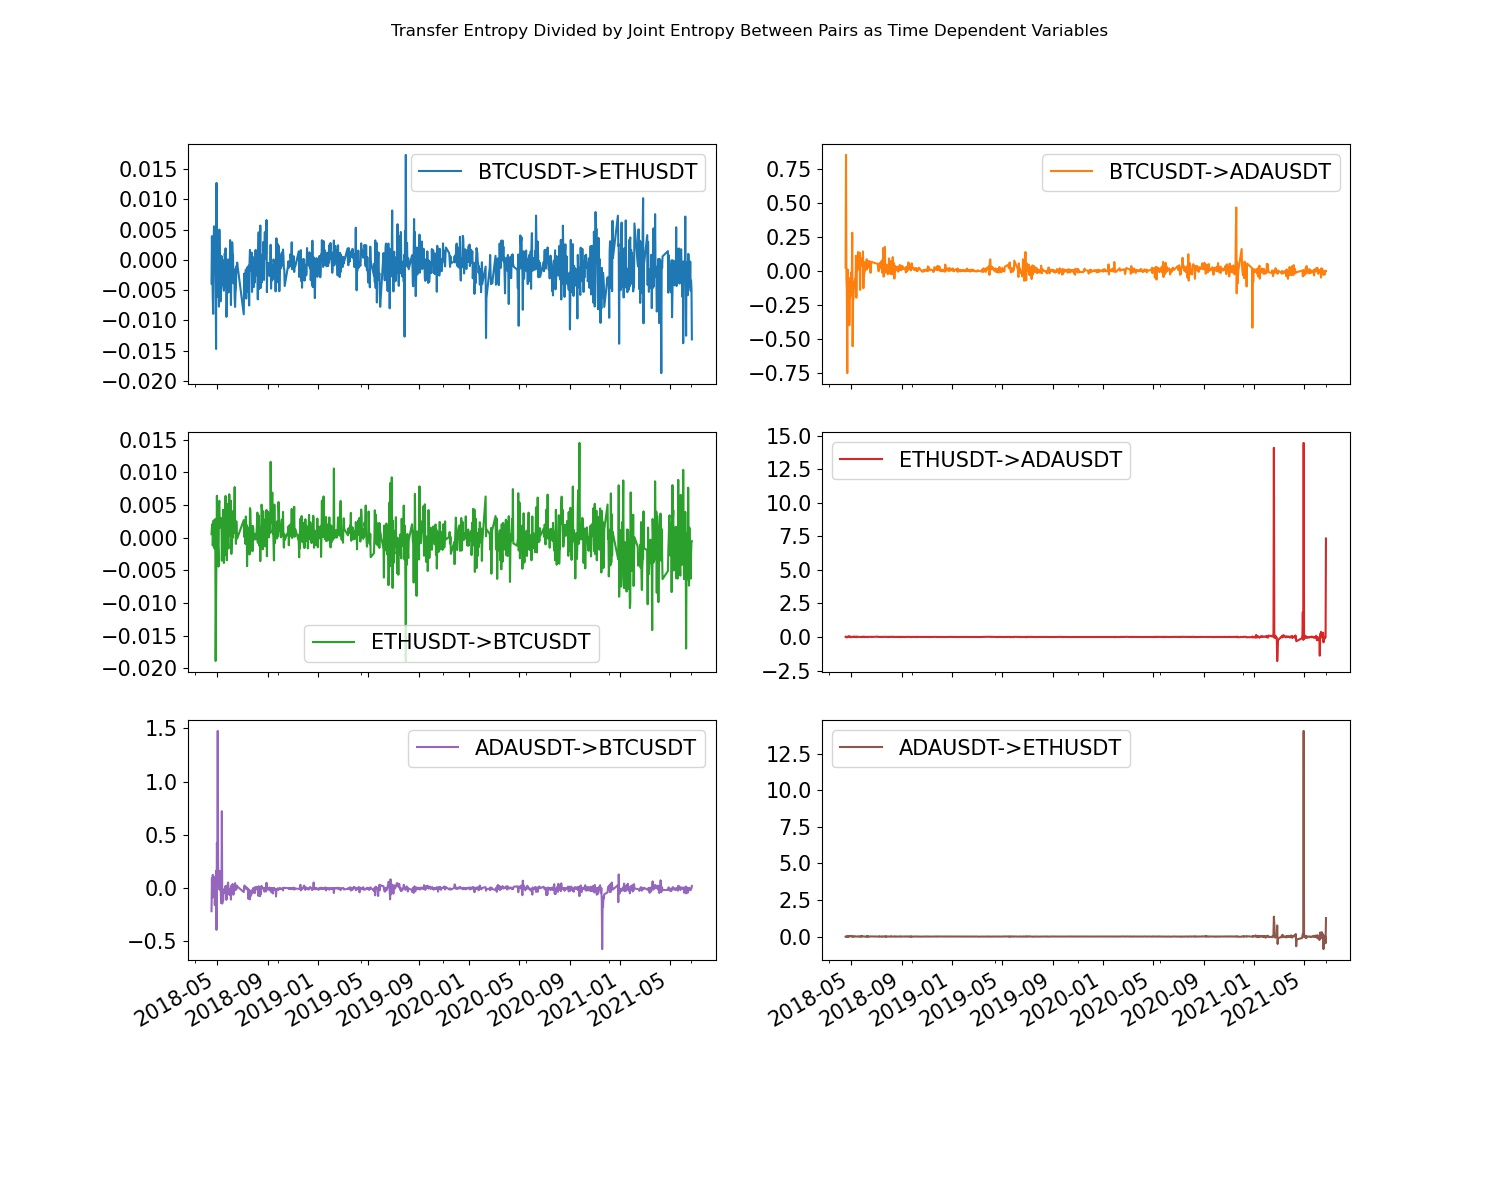
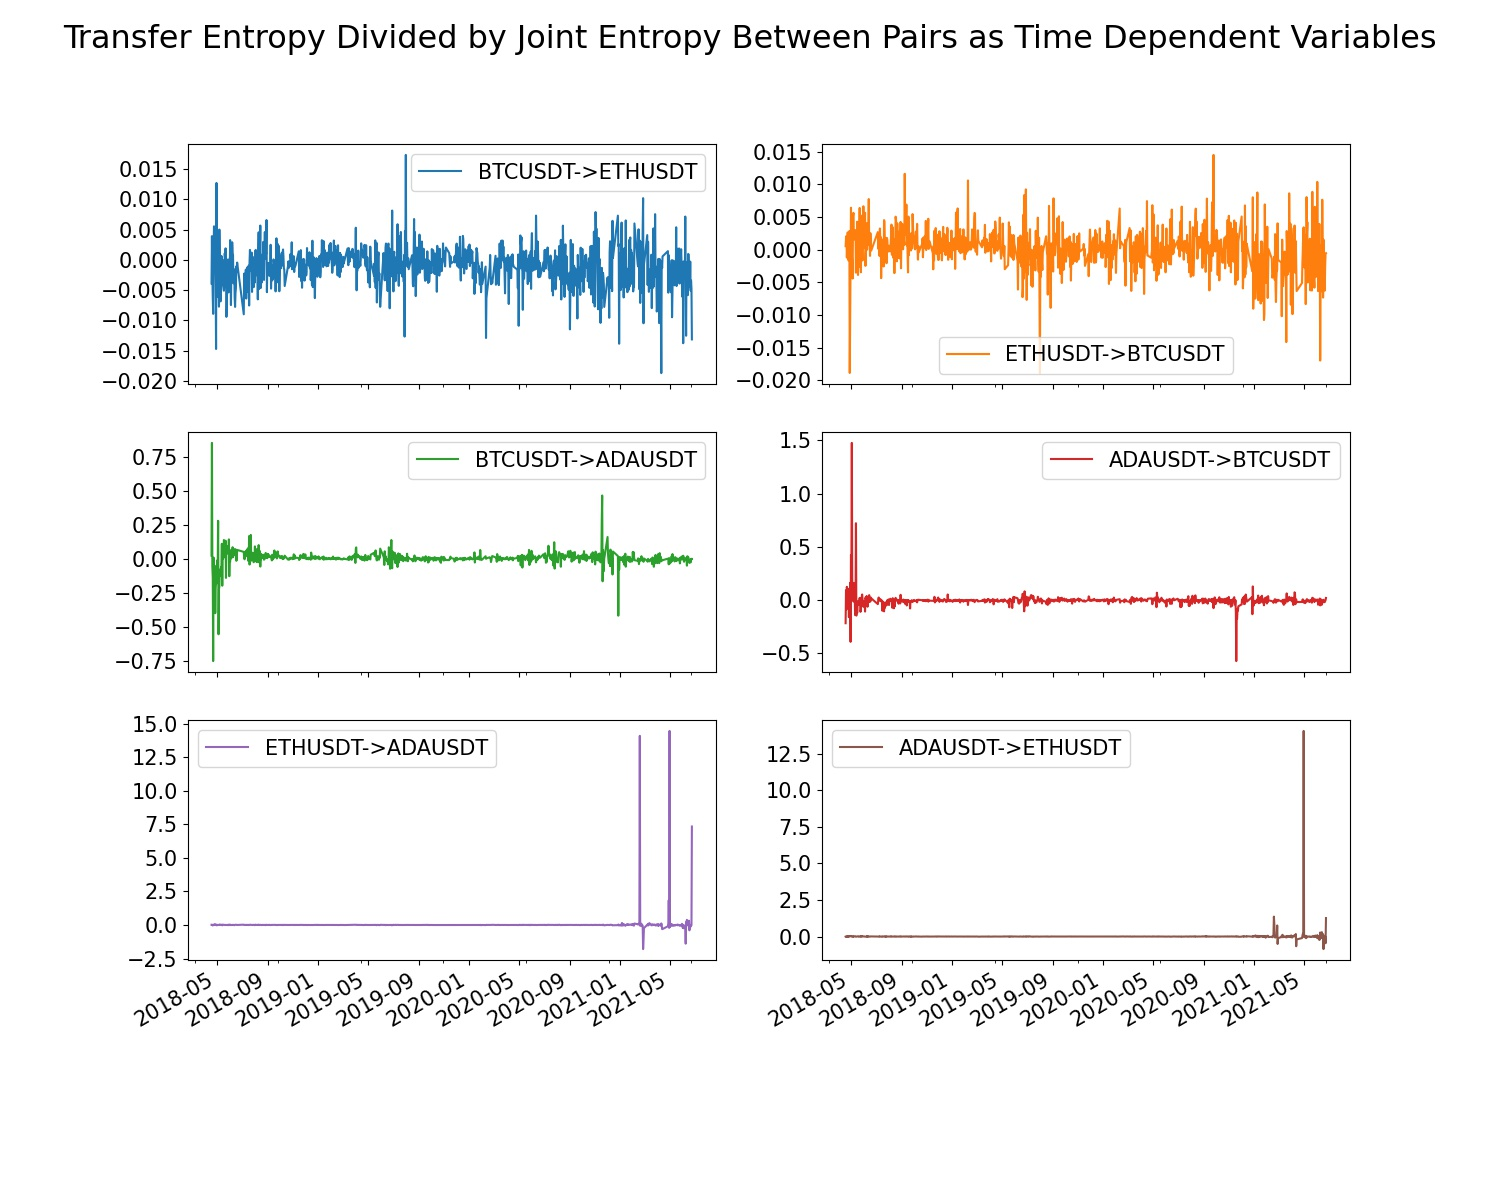
time dependent final

diff --git a/results_analysis.py b/results_analysis.py
@@ -43,14 +43,15 @@ class ResultsAnalysis:
             description = "Transfer Entropy Divided by Joint Entropy"
         
         df.rename(columns=lambda x: x.replace("_", "->"), inplace=True)
-        columns_to_plot = [col for col in df.columns if len(set(col.split("->"))) > 1]
+        # columns_to_plot = [col for col in df.columns if len(set(col.split("->"))) > 1]
+        columns_to_plot = ["BTCUSDT->ETHUSDT", "ETHUSDT->BTCUSDT", "BTCUSDT->ADAUSDT", "ADAUSDT->BTCUSDT", "ETHUSDT->ADAUSDT", "ADAUSDT->ETHUSDT"]
         title = f"{description} Between Pairs as Time Dependent Variables" 
-       
+        
         plt.rc('legend',**{'fontsize':15})
-
+        
         df[columns_to_plot].plot(layout=(self.ncols, self.ncols-1), subplots=True, figsize=(15,12), fontsize=15)
         fig = plt.gcf()
-        fig.suptitle(title, fontsize=16)
+        fig.suptitle(title, fontsize=23)
 
         filename = self.folder + "/time_dependent_variables.jpg"
         plt.savefig(filename)
